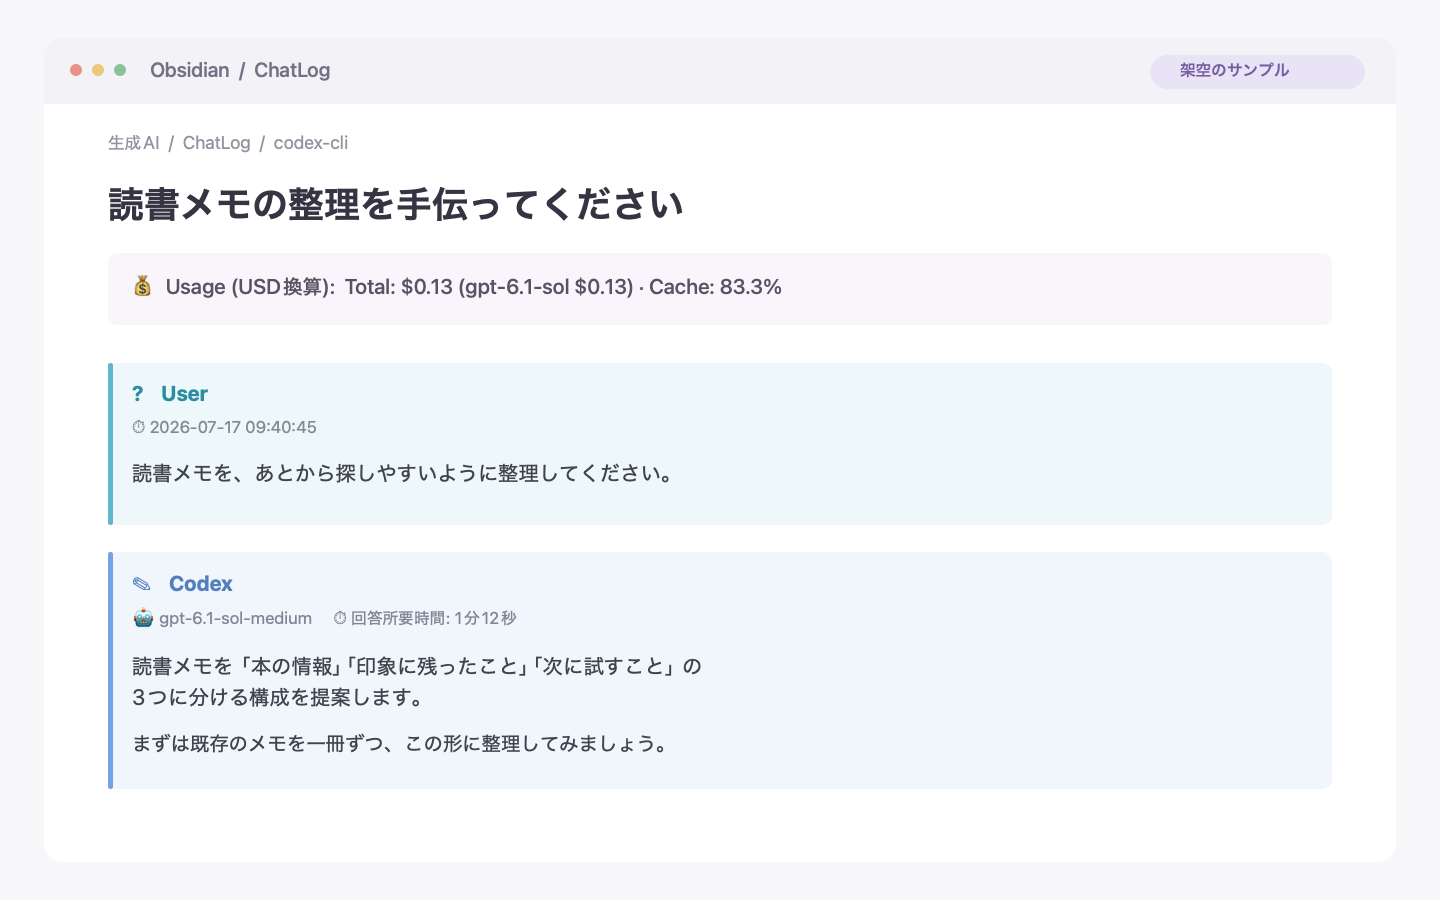
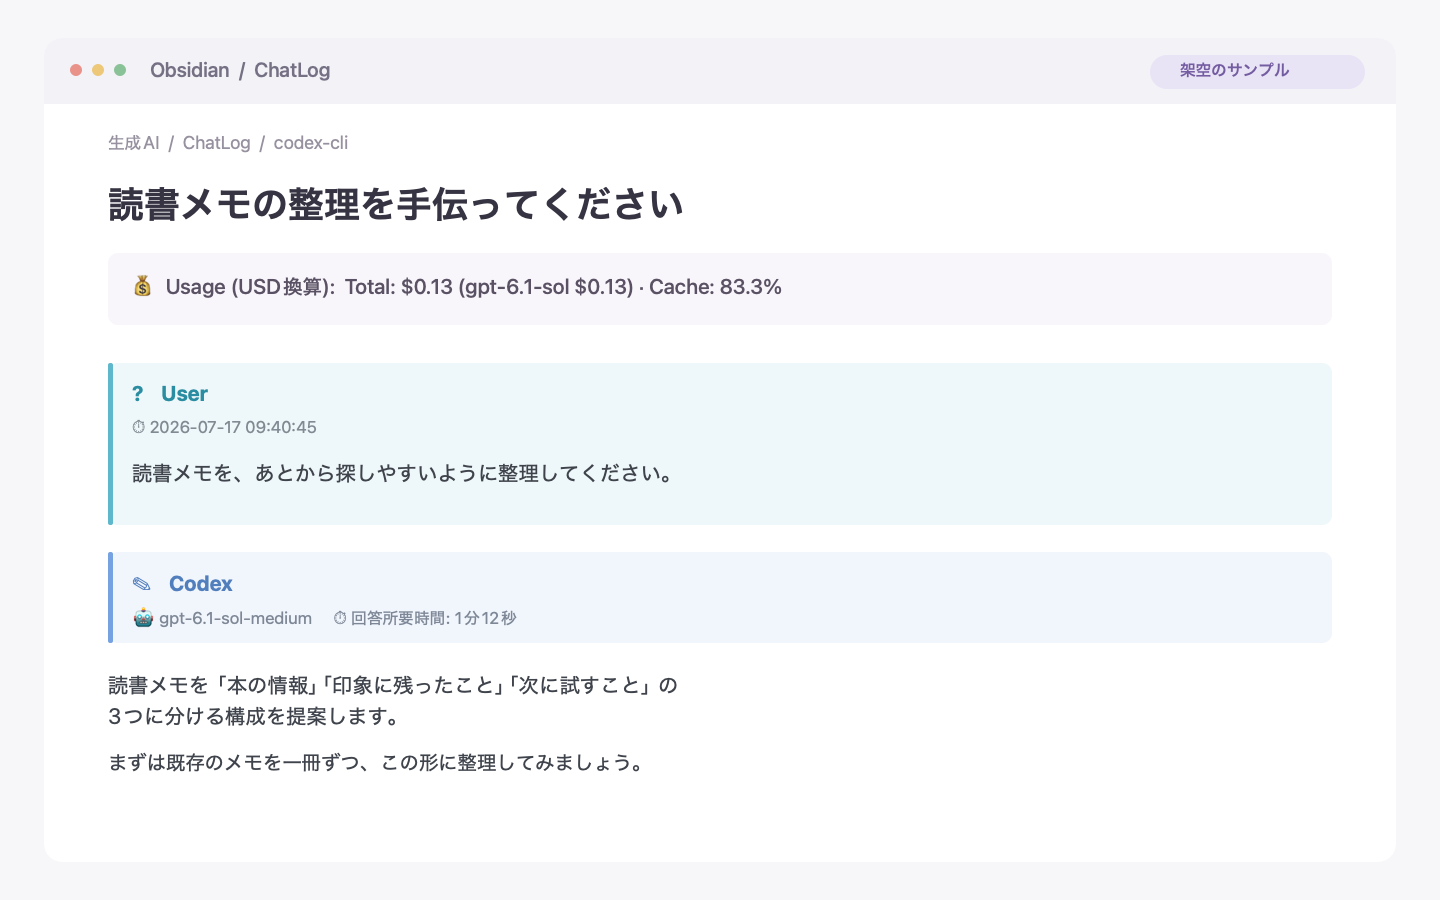
docs: correct public guide details

Changed region(s): [[0.0625, 0.7156, 0.5, 0.8711]]

diff --git a/docs/dataview.md b/docs/dataview.md
@@ -16,6 +16,6 @@
 
 日付の判定にはノートの`modified`を使います。昨日始めた会話を今日再開して更新すると、今日の一覧へ移ります。日ごとの会話履歴を固定して保存するものではありません。
 
-`$`は会話全体の累計USD参考換算、`総計$`はその日の一覧に該当する会話のうち、参考換算値があるものの合計です。**その日に使った金額や実際の請求額ではありません。** 金額を取得できない会話も一覧には表示しますが、総計には加算しません。表示は小数2桁に丸めるため、各行の表示額を足した値と総計に差が出る場合があります。
+`$`は会話全体の累計USD参考換算、`総計$`はその日の一覧に該当する会話のうち、参考換算値があるものの合計です。**その日に使った金額や実際の請求額ではありません。** 金額を取得できない会話も一覧には表示しますが、総計には加算しません。未登録モデルなどが混在する「部分換算」の会話では、換算できた金額のみ含みます。表示は小数2桁に丸めるため、各行の表示額を足した値と総計に差が出る場合があります。
 
 USD参考換算・発言数は作業時間を表すものではありません。金額の詳しい意味は[記録仕様](usage-spec.md)、保存先の設定は[共通設定](configuration.md)を参照してください。

diff --git a/docs/setup/opencode.md b/docs/setup/opencode.md
@@ -36,6 +36,10 @@ OpenCodeを再起動するとプラグインが読み込まれます。`OBSIDIAN
 
 上の`~/.config/opencode/plugins/`への配置では設定ファイルへの追記は不要です。単一の`.js`ファイルを`opencode.jsonc`の`plugins`へ直接指定すると読み飛ばされるため、自動読み込みの配置を使ってください。[OpenCode v2公式プラグイン仕様](https://opencode.ai/v2/docs/plugins/)
 
+## ノートへの手動追記について
+
+会話や使用量が更新されると、履歴全体からノートを再生成します。**ノート本文への手動追記は次回更新で置き換わります。** 振り返りや補足のメモは別ノートに書き、会話ノートへリンクしてください。
+
 ## 記録される使用量
 
 OpenCodeが回答レコードに記録したtoken使用量を保存します。OpenRouter残高の取得は行いません。

diff --git a/docs/usage-spec.md b/docs/usage-spec.md
@@ -127,7 +127,7 @@ usage:
 > [!NOTE] Codex
 > <small>🤖 gpt-6.1-sol-medium</small>
 
-> 問題を確認しました。原因は...
+問題を確認しました。原因は...
 ```
 
 ChatGPTからWorkへ移行した際に生成される構造化されたユーザー入力は、先頭が
